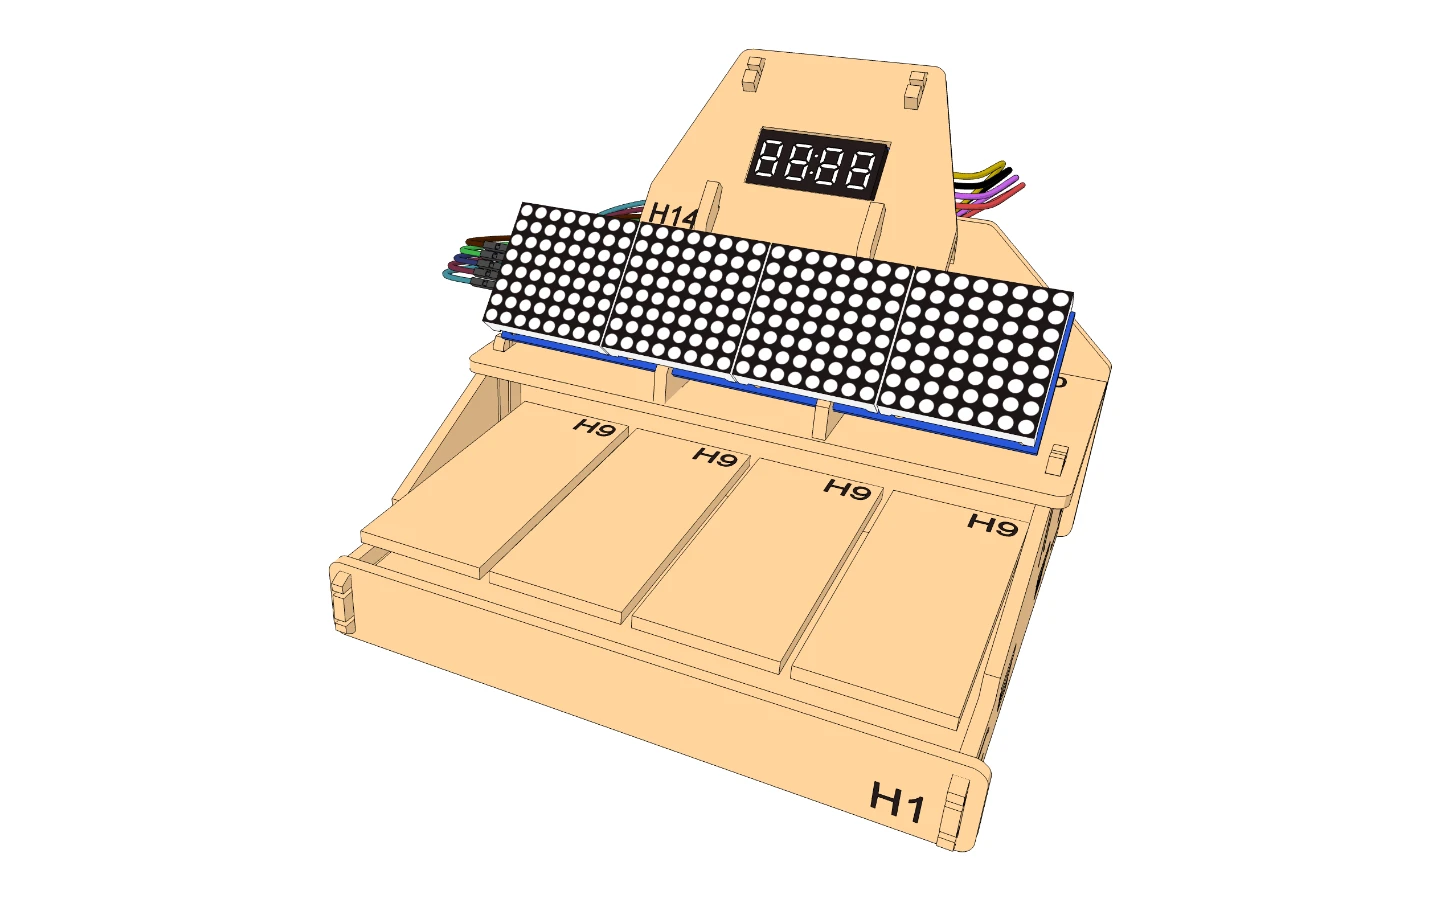
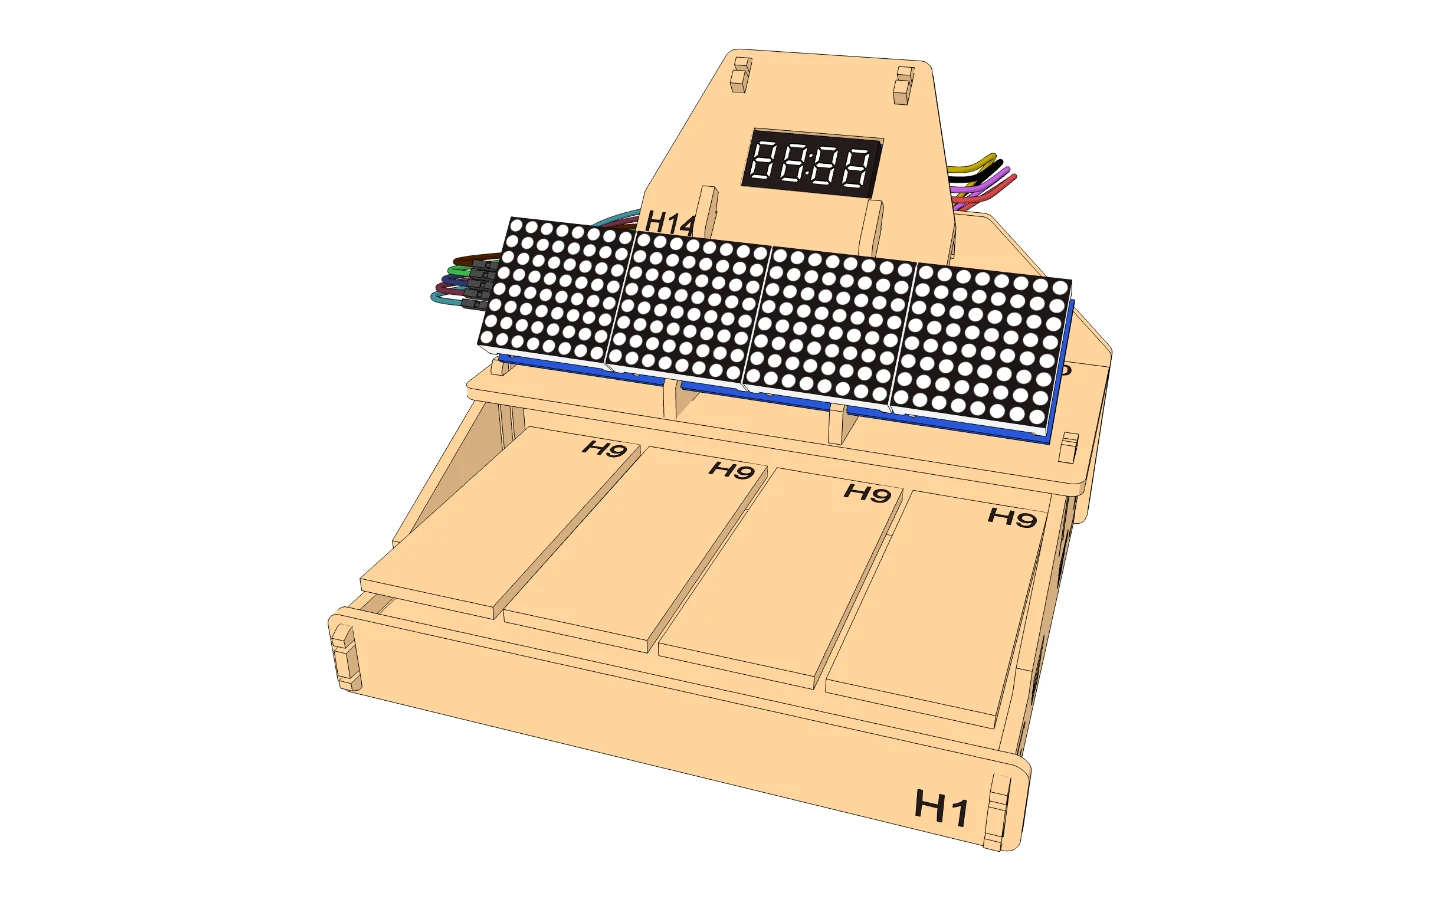
PMG: the Completed View centred, seen from the title page's eye (Lee, 21 Oct 2026)
Lee: "Centre the model on the Completed View; keep the title page as it is." The Completed View
keeps the title page's eye (3.4 mm from it in landscape windows) and turns to the model's middle,
so the same faces show, the picture about 4 degrees more level; moving the camera sideways
instead would have shown the model 8 degrees round. Only the Completed View's camera changed;
the card picture is made again. Checked at seven window sizes, by the runthrough (99 views, 0
problems) on 8792 and the test website (r12), and by an independent review (two reviewers),
which corrected the text about where the player moves the title page aside.

Changed region(s): [[0.2188, 0.0622, 0.7812, 0.9644], [0.4688, 0.0311, 0.5312, 0.1556], [0.4375, 0.1556, 0.4688, 0.1867]]

diff --git a/PMG Build Instructions/guide.py b/PMG Build Instructions/guide.py
@@ -1224,14 +1224,21 @@ g.place('Fit H14 over the 4-digit display: set its two bottom tabs down onto the
         inset=dict(target=H14_TABS[0], dir=[0.15, 0.97, -0.2], radius=15.0, mark=6.0,       # (from above: the tab is behind the LEDs' top edge)
                    alt="Close-up of H14's tab resting in the top edge of the dot matrix display."),
         view_dir=[-0.65, 0.6, -0.46], frame=([552.0, 975.0, 1290.0], 78.0))
-# The title page and the Completed View: one camera, solved from Lee's screenshot of the title page (21 Oct 2026: "On the starting
-# view / completed view, let's go for this camera position / zoom for the PMG"), the finished game from the front, on the student's
-# right, seen a little lower than before; not moved aside (shift=0), so it is seen from exactly that direction in every window.
+# The title page: the camera solved from Lee's screenshot of it (21 Oct 2026: "On the starting view / completed view, let's go for
+# this camera position / zoom for the PMG"; the Completed View then centred, below), the finished game from the front, on the
+# student's right, seen a little lower than before. shift=0: the player moves it aside only where that lets the model be bigger (windows near
+# square or upright: 1 degree round at 900 x 880, 8 on a phone held upright); in wider windows it is seen from exactly there.
+# The Completed View has no logo or title beside the model, and centres it (Lee, the same day: "Centre the model on the Completed
+# View; keep the title page as it is"): seen from the same place as the title page (the eye 3.4 mm from it in windows 1.2 times as
+# wide as the picture is tall or more, every landscape size measured), turned to look at the model's middle, at the same distance
+# (radius). The same faces show; the picture is turned about 4 degrees more level than the title page's, and the model is 75% of
+# the frame's height (the title page's, off to the side, is stretched a little by the perspective to 78%). Only moving the camera
+# sideways would have shown the model 8 degrees round from Lee's view. The player hardly moves it aside in any window (6 mm, 0.6
+# degrees from Lee's view, on a phone held upright, where the title page is the one moved aside).
 # Were: title page dir=[-0.3999, 0.546, 0.7362], target=[574.4, 947.3, 1290.5], radius=150.5, shift=0.7 (Lee's fifth round, moved
 # right); Completed View dir=[-0.7157, 0.5739, 0.398], target=[532.0, 935.0, 1292.0], radius=112.0.
-LEE_HERO = dict(dir=[-0.7723, 0.4726, 0.4246], target=[522.7, 912.3, 1235.3], radius=113.6)
-g.start_view = dict(LEE_HERO, shift=0)
-g.end_view = dict(LEE_HERO)
+g.start_view = dict(dir=[-0.7723, 0.4726, 0.4246], target=[522.7, 912.3, 1235.3], radius=113.6, shift=0)
+g.end_view = dict(dir=[-0.8363, 0.459, 0.2999], target=[546.0, 915.1, 1274.2], radius=113.6)
 # ================================================================ THE CASE (end)
 
 g.build()
